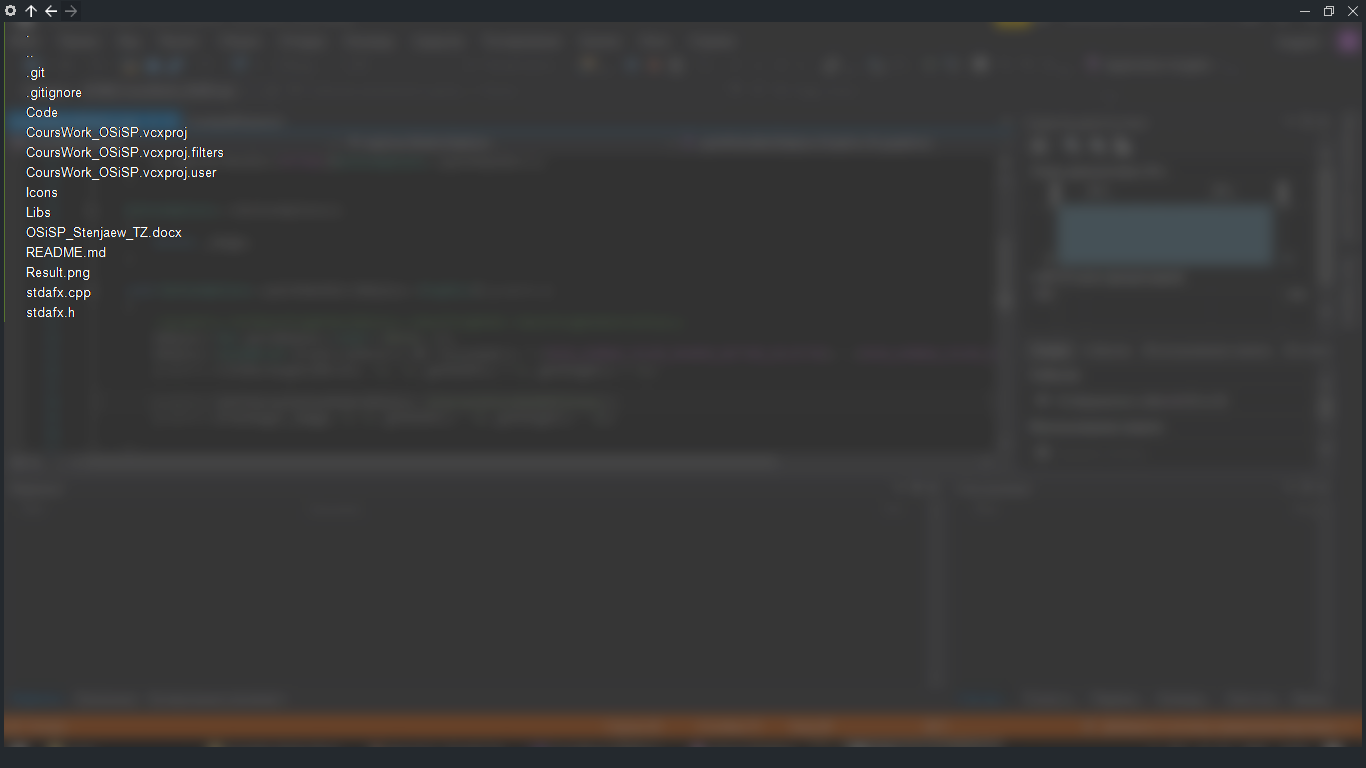
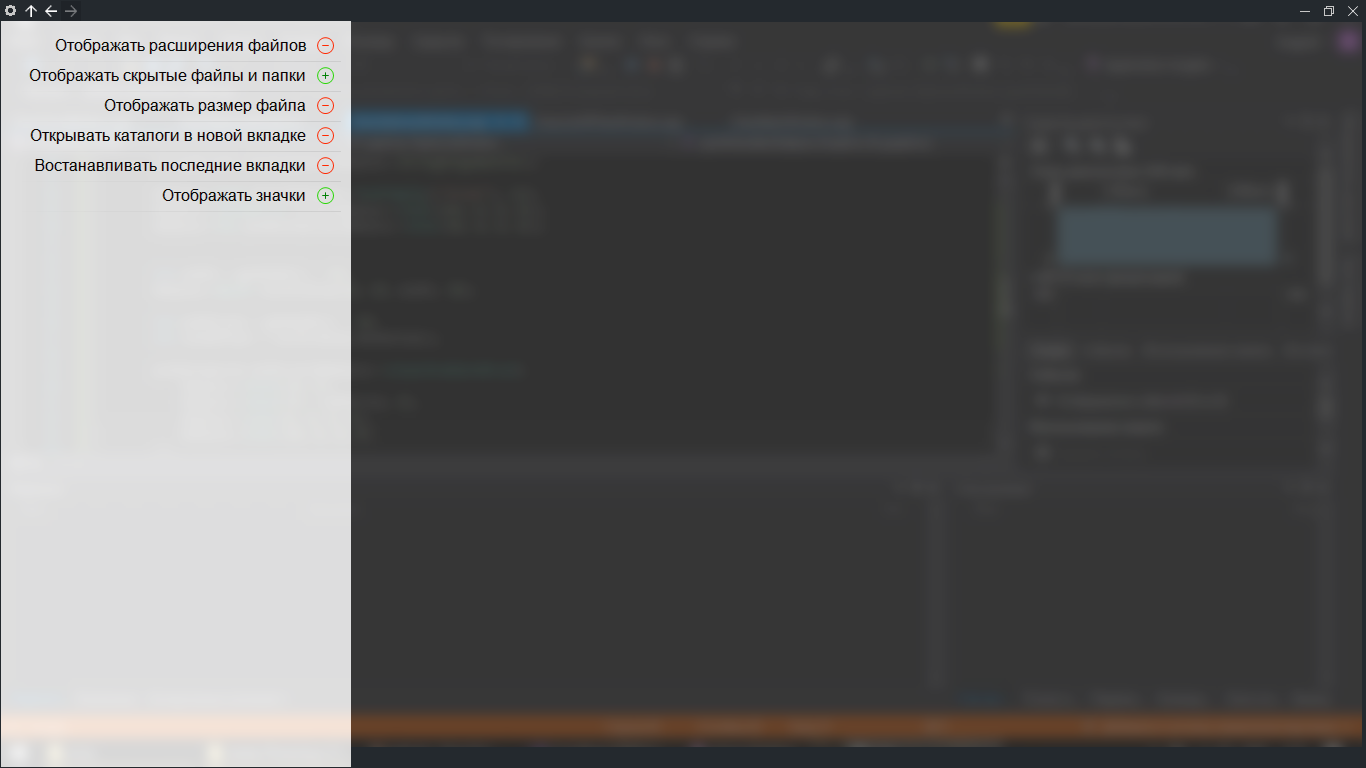
Add controls and update GUI

Changed region(s): [[0.0, 0.0, 0.3997, 1.0]]

diff --git a/Code/Classes/Buttons/ClassCheckButton/ClassCheckButton.cpp b/Code/Classes/Buttons/ClassCheckButton/ClassCheckButton.cpp
@@ -7,6 +7,8 @@ namespace explorer {
 	{
 		m_registerHendler(METHOD(&CheckButton::paintHandler));
 		m_registerHendler(METHOD(&CheckButton::mouseClickHandler));
+
+		setLock(false);
 	}
 
 	CheckButton::CheckButton() : _isChecked(false)
@@ -26,24 +28,38 @@ namespace explorer {
 		int width = getWidth();
 		int height = getHieght();
 		
-		if (_isChecked) {
-			Gdiplus::Pen pen(Gdiplus::Color(254, 39, 215, 4), 1);
-			Gdiplus::Pen pen_ok(Gdiplus::Color(254, 0, 128, 4), 1);
-			graphics.DrawEllipse(&pen, 0, 0, width - 1, height - 1);
-			
-			graphics.DrawLine(&pen_ok, Gdiplus::Point(width / 2, 5), Gdiplus::Point(width / 2, height - 6));
-			graphics.DrawLine(&pen_ok, Gdiplus::Point(5, height / 2), Gdiplus::Point(width - 6, height / 2 ));
+		if (!isLocked()) {
+			if (_isChecked) {
+				Gdiplus::Pen pen(Gdiplus::Color(254, 39, 215, 4), 1);
+				Gdiplus::Pen pen_ok(Gdiplus::Color(254, 0, 128, 4), 1);
+				graphics.DrawEllipse(&pen, 0, 0, width - 1, height - 1);
+
+				graphics.DrawLine(&pen_ok, Gdiplus::Point(width / 2, 5), Gdiplus::Point(width / 2, height - 6));
+				graphics.DrawLine(&pen_ok, Gdiplus::Point(5, height / 2), Gdiplus::Point(width - 6, height / 2));
+			}
+			else {
+				Gdiplus::Pen pen(Gdiplus::Color(254, 255, 39, 0), 1);
+				graphics.DrawEllipse(&pen, 0, 0, width - 1, height - 1);
+
+				graphics.DrawLine(&pen, Gdiplus::Point(5, height / 2), Gdiplus::Point(width - 6, height / 2));
+			}
 		}
 		else {
-			Gdiplus::Pen pen(Gdiplus::Color(254, 255, 39, 0), 1);
+			Gdiplus::Pen pen(Gdiplus::Color(254, 196, 196, 196), 1);
 			graphics.DrawEllipse(&pen, 0, 0, width - 1, height - 1);
 
-			graphics.DrawLine(&pen, Gdiplus::Point(5, height / 2), Gdiplus::Point(width - 6, height / 2));
+			if (_isChecked) {
+				graphics.DrawLine(&pen, Gdiplus::Point(width / 2, 5), Gdiplus::Point(width / 2, height - 6));
+				graphics.DrawLine(&pen, Gdiplus::Point(5, height / 2), Gdiplus::Point(width - 6, height / 2));
+			}
+			else {
+				graphics.DrawLine(&pen, Gdiplus::Point(5, height / 2), Gdiplus::Point(width - 6, height / 2));
+			}
 		}
 	}
 	void CheckButton::mouseClickHandler(const MouseEventClick& mouseEventClick)
 	{
-		if (mouseEventClick.Button == MOUSE_LEFT && mouseEventClick.Status == KEY_PRESSED) {
+		if (mouseEventClick.Button == MOUSE_LEFT && mouseEventClick.Status == KEY_PRESSED && !isLocked()) {
 			setCheckStatus(!_isChecked);
 		}
 	}

diff --git a/Code/Classes/ClassMainWindow/ClassMainWindow.cpp b/Code/Classes/ClassMainWindow/ClassMainWindow.cpp
@@ -172,9 +172,10 @@ namespace explorer {
 			0,
 			MAIN_WINDOW_HEADER_HEIGHT+1,
 			350,
-			getHieght() - MAIN_WINDOW_HEADER_HEIGHT - 1
+			getHieght() - MAIN_WINDOW_HEADER_HEIGHT - 2,
+			false
 		);
-		windowOptions.show(false);
+		/*windowOptions.show(false);*/
 		//MessageBox(nullptr, (L"IT'S WORK!!! " + getWindowName()).c_str(), L"TEST", MB_OK);
 	}
 

diff --git a/Code/Classes/ClassOptionsWindow/ClassOptionsWindow.h b/Code/Classes/ClassOptionsWindow/ClassOptionsWindow.h
@@ -14,7 +14,9 @@ namespace explorer {
 		bool _animation;
 		int _animationStatus;
 
-		CheckButton _test;
+		std::list<std::wstring> _listOfParams;
+
+		std::vector<CheckButton> _listOfcheckBoxes;
 
 	public:
 		OptionsWindow();
